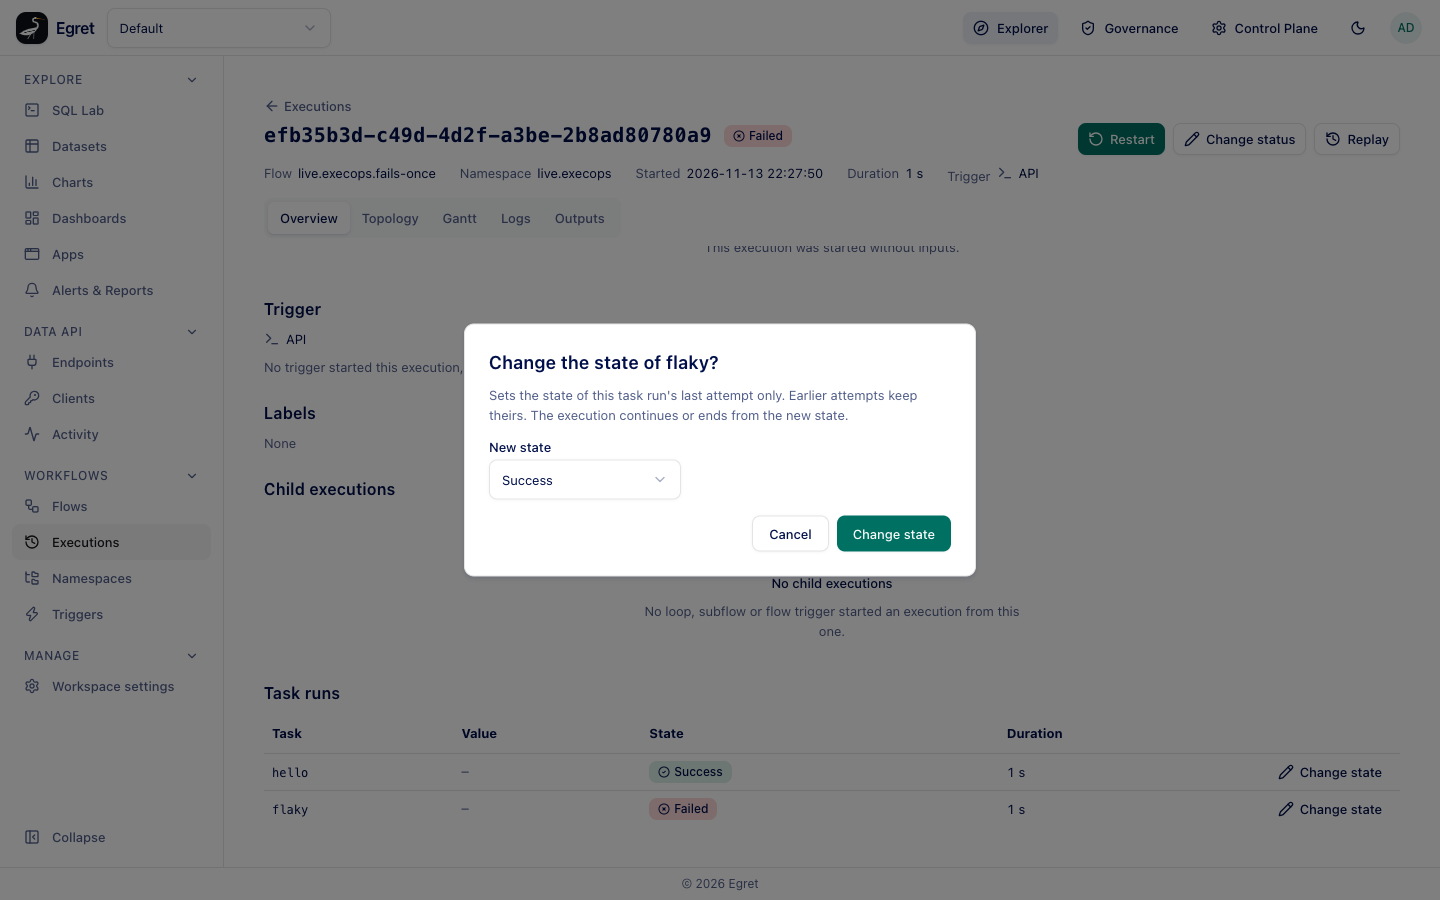
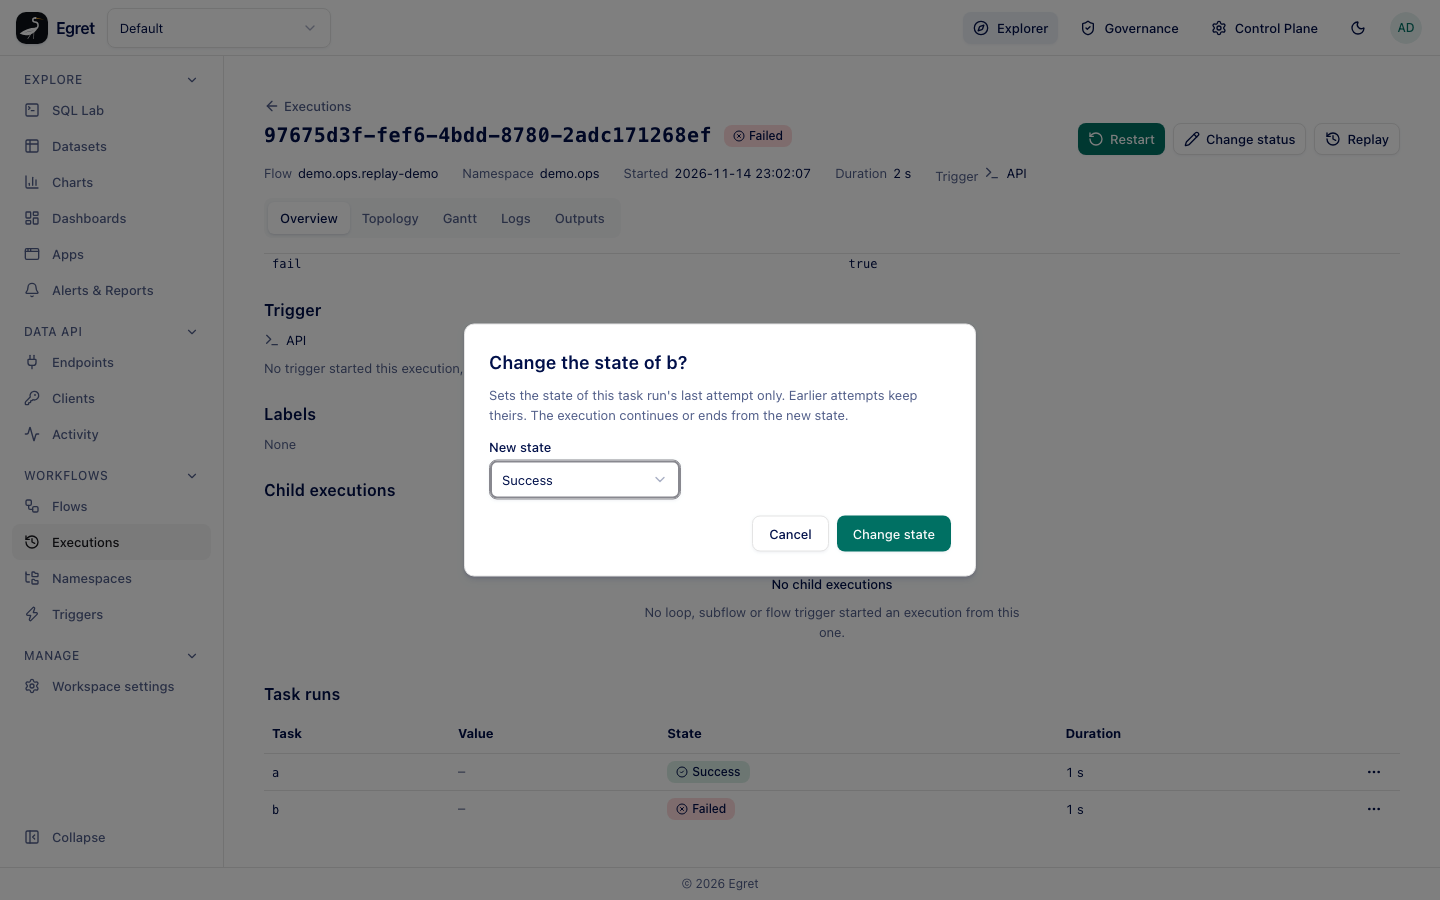
docs(workflows): re-shoot the restart and change-state screenshots for the version choice and row menu

diff --git a/platform/workflows/executions/actions.md b/platform/workflows/executions/actions.md
@@ -89,7 +89,7 @@ Use this to tell the engine that a task's result should count differently, for e
 2. Open the menu on the row and choose **Change state**.
 3. In the dialog **Change the state of *task*?**, pick the **New state** and press **Change state**. The dialog says *Sets the state of this task run's last attempt only. Earlier attempts keep theirs. The execution continues or ends from the new state.*
 
-![The Change the state of flaky? dialog with Success picked, above the Task runs table](/img/platform/workflows/execution-change-task-state.png)
+![The Change the state of b? dialog with Success picked, above the Task runs table](/img/platform/workflows/execution-change-task-state.png)
 
 The **New state** list offers **Success**, **Warning**, **Failed** and **Cancelled**, without the state the task run is already in. Only the last attempt changes; no attempt is added. The execution then continues from the new state:
 
